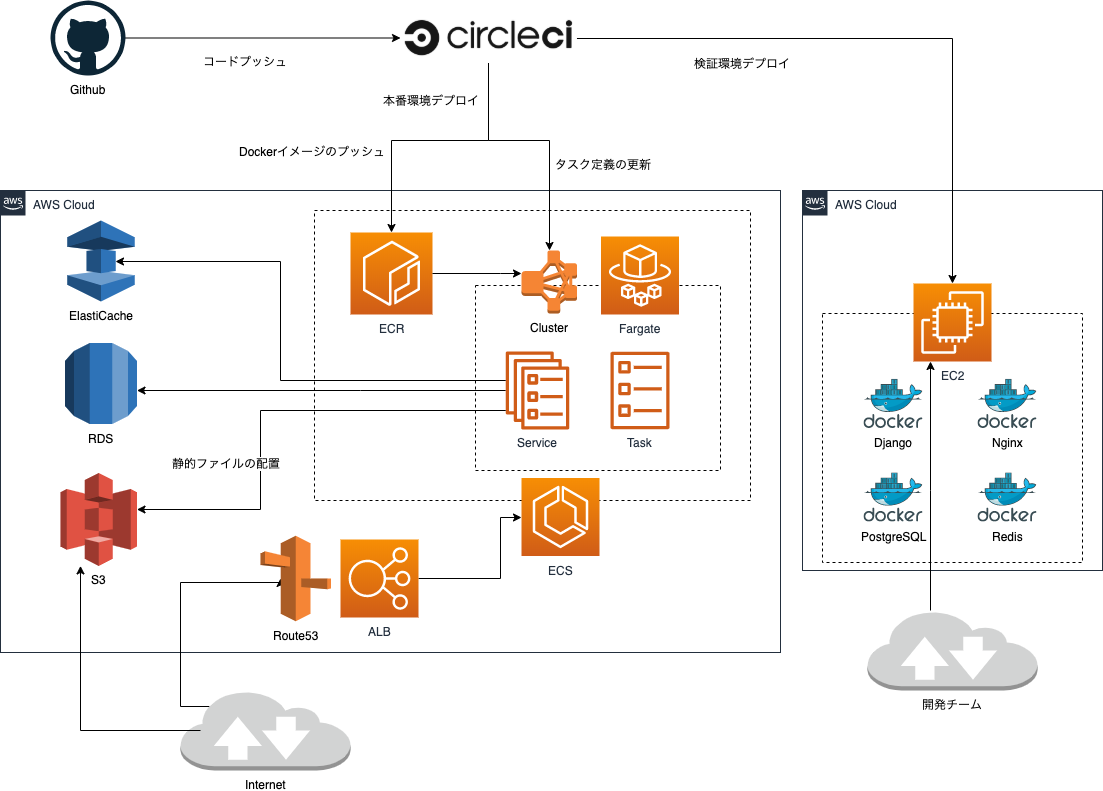
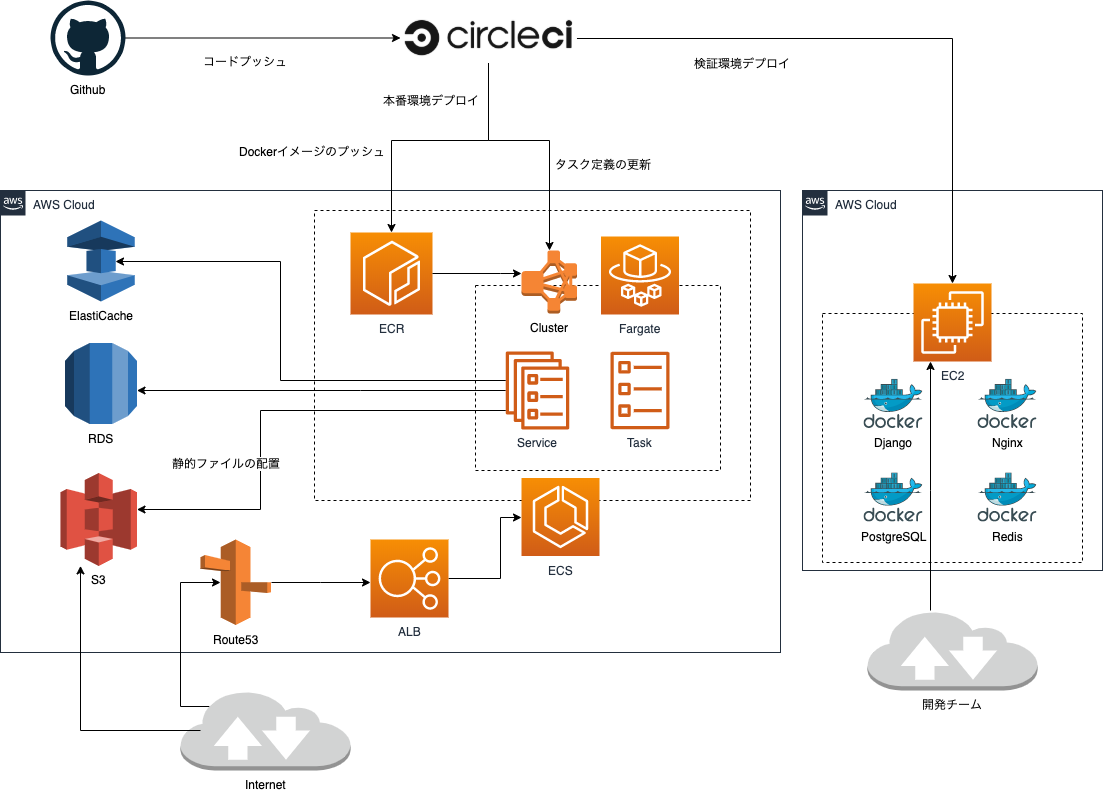
READMEとシステム構成図を修正

Changed region(s): [[0.185, 0.6675, 0.4316, 0.8192], [0.3391, 0.7889, 0.3699, 0.8192]]

diff --git a/README.md b/README.md
@@ -1,5 +1,6 @@
 ## 開発環境
-Vagrant上のCentOS7に作成したDockerコンテナを使用。
+VirtualBoxとVagrantでCentOS7の仮想マシンを構築し、そのマシンで作成したDockerコンテナを使用。
+※利用したVagrantfileはソースに含めていない。
 
 ## 開発言語とフレームワーク
 - PythonのDjangoフレームワーク
@@ -7,9 +8,9 @@ Vagrant上のCentOS7に作成したDockerコンテナを使用。
 
 ## インフラ
 - 本番環境
-- - ECS、ECR、RDS、ElastiCache、S3、ALB
+    - ECS、Fargate、ECR、RDS、ElastiCache、S3、ALB、Route53
 - 検証環境
-- - EC2に、使用するミドルウェア（Django、Nginx、PostgreSQL、Redis）をDockerで構築
+    - EC2に、使用するミドルウェア（Django、Nginx、PostgreSQL、Redis）をDockerで構築
 
 詳細はリポジトリの system_architecture.png を参照。
 
@@ -30,15 +31,15 @@ Vagrant上のCentOS7に作成したDockerコンテナを使用。
 
 ## テストツール
 - 単体テスト
-- - Django標準のユニットテスト機能
+    - Django標準のユニットテスト機能
 - 統合テスト
-- - Selenium (Chromeドライバを使用)
+    - Selenium (Chromeドライバを使用)
 
-## その他ミドルウェア
+## その他のミドルウェア
 - 本番環境
-requirements.txt を参照。
+    - requirements.txt を参照。
 - 開発環境
-requirements_dev.txt を参照。
+    - requirements_dev.txt を参照。
 
 ## 心がけたこと
 - 本番環境と開発環境の差異をDockerコンテナ技術により少なくする
